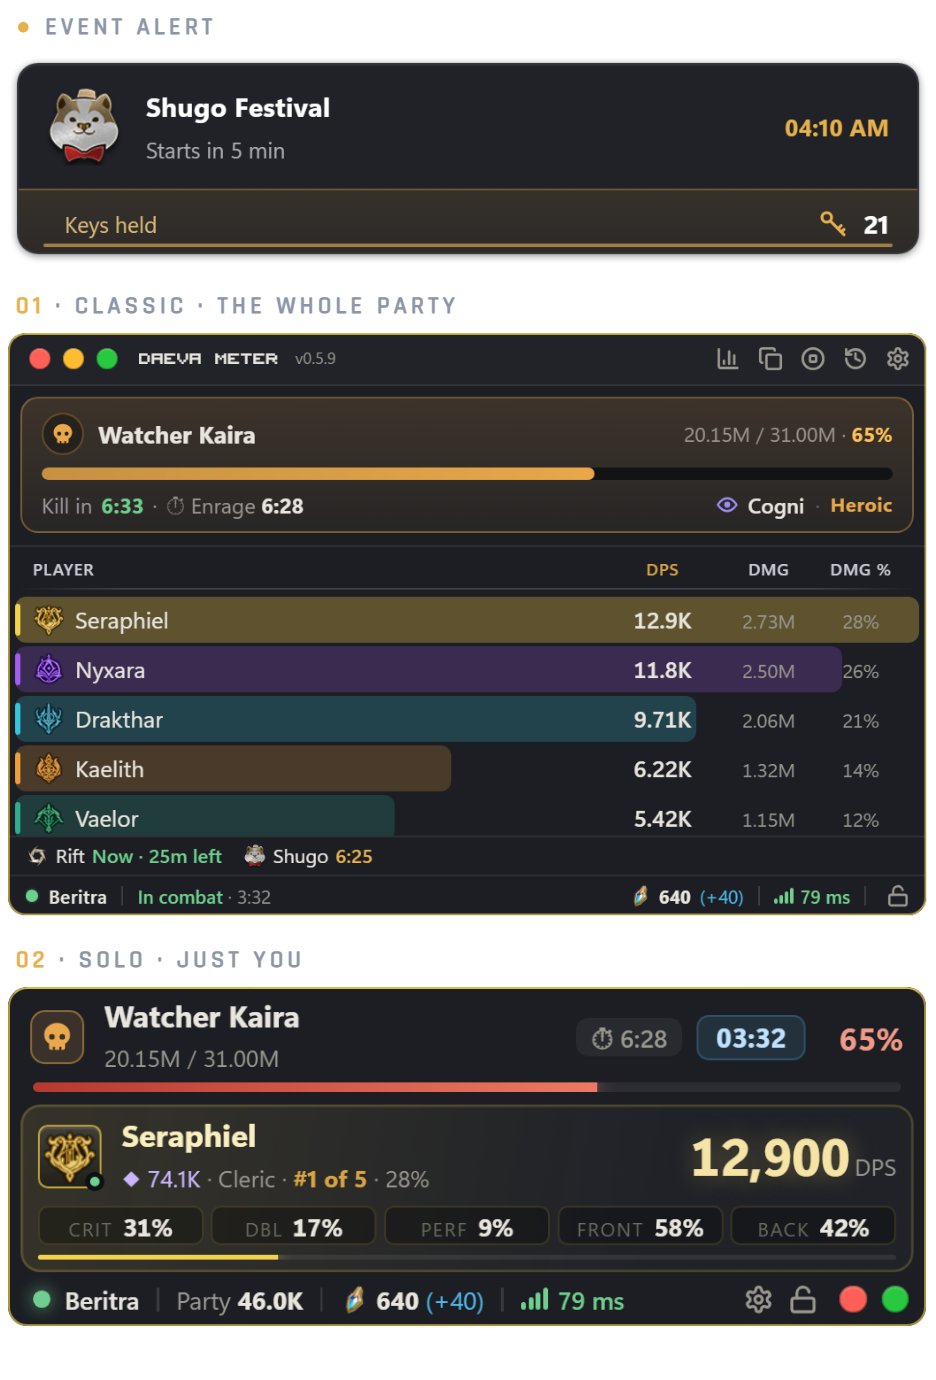
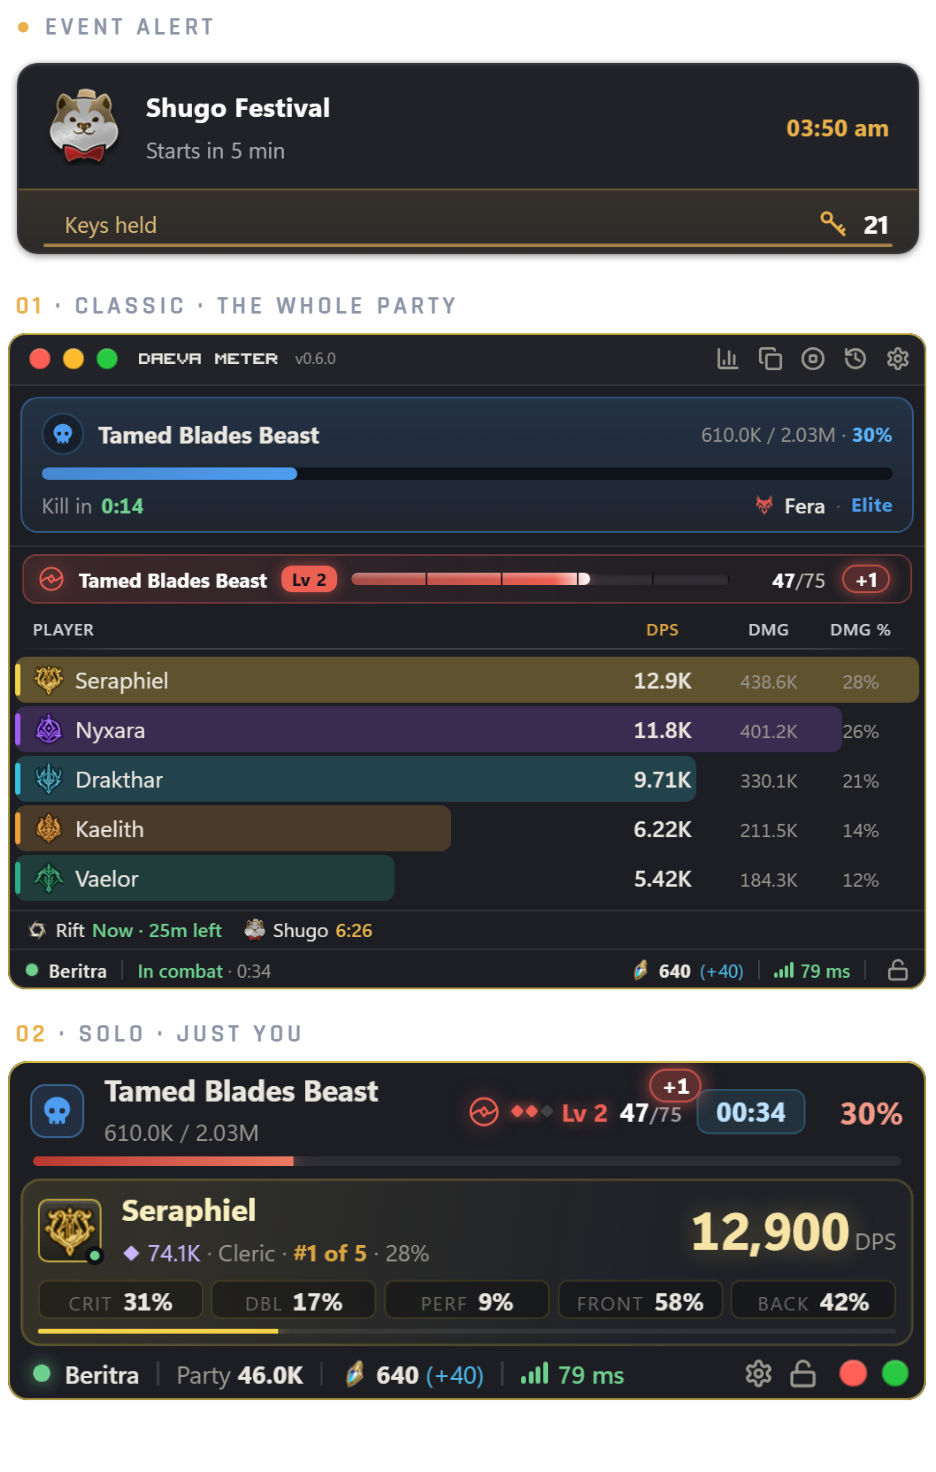
Version 1.12.8: Daeva Meter 0.6.0 pictures

Changed region(s): [[0.0, 0.0, 0.9915, 0.9659]]

diff --git a/source/src/version.ts b/source/src/version.ts
@@ -3,7 +3,7 @@
  * Bump it with each release (new features: 1.4.0, fixes only: 1.3.1), in
  * step with package.json and CHANGELOG.md; a test checks they agree.
  */
-export const DAEVA_VERSION = "1.12.7";
+export const DAEVA_VERSION = "1.12.8";
 export const DAEVA_NAME = `Daeva v${DAEVA_VERSION}`;
 
 /** The maker's mark, at the end of every card's footer. */

diff --git a/CHANGELOG.md b/CHANGELOG.md
@@ -4,6 +4,10 @@ Daeva, the AION 2 Discord bot behind aion2.bajubesi.org. Versions follow
 the footer on every card: new features raise the middle number (1.4.0),
 fixes only raise the last (1.3.1).
 
+## 1.12.8 · 3 November 2026
+
+- **Daeva Meter 0.6.0 pictures** on the website and in the Discord release post.
+
 ## 1.12.7 · 2 November 2026
 
 - **Daeva Meter 0.5.9 pictures** on the website and in the Discord release post.
